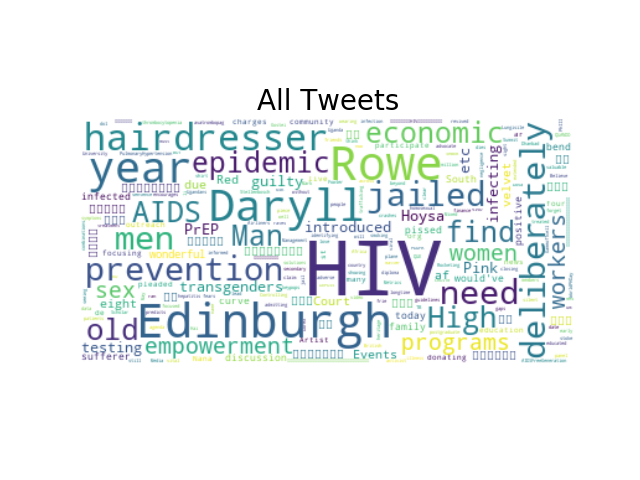
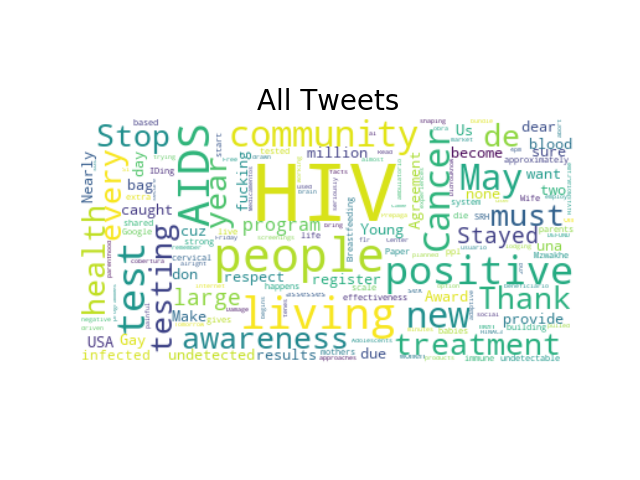
Updated word freq code.

Changed region(s): [[0.125, 0.25, 0.9062, 0.7812]]

diff --git a/wordcount.py b/wordcount.py
@@ -14,15 +14,13 @@ class WordCount(object):
         return result
 
     def getFrequentWordsFrom(self, s):
+        returnlist = []
         wordNumberToReturn = 10 #the number of most common words that you'd like to return
 
         words = s.split()     #turn string into a list of words in the string
         words = [x.lower() for x in words] #turn all words in the list to lowercase, to easily take out words we don't want
 
-        stopwords = ['the', 'i', 'from', 'a', 'me', 'thing', 'is', 'of', 'by', 'be', 'any', 'on', 'my', 'and', 'in', 'are', 'https:', '...', '-', 'to', 'for', 'as'
-        ,'with', 'get', 'el', 'la', 'at', 'or', 'we', 'he', 'you', 'its', 'this','has','can','so','our','will','what',
-        'who','nor', 'yet', 'but','also', 'am', 'maybe', 'if', 'she', 'her', 'that', 'they', 'was', 'than', 'not', 'it'
-        'rt','these', 'how', 'overall', 'an'] #words we don't want
+        stopwords = ['the', 'i', 'from', 'a', 'me', 'thing', 'is', 'of', 'by', 'be', 'any', 'on', 'my', 'and', 'in', 'are', 'https:', '...', '-', 'to', 'for', 'with', 'it'] #words we don't want
         for word in list(words):
             if word in stopwords:
                 words.remove(word) #remove the words we don't want
@@ -30,6 +28,10 @@ class WordCount(object):
         scores = self.getWordCounts(words)   #magic that gets the most frequent words in the list
         scores = sorted(scores.items(), key=operator.itemgetter(1))
         scores = reversed(scores)
-        scores = list(x[0] for x in scores)
+        scores = dict(x for x in scores)
 
-        return scores[0:wordNumberToReturn]
+        for key, value in scores.items():
+            temp = [key,value]
+            returnlist.append(temp)
+
+        return returnlist[0:wordNumberToReturn]
